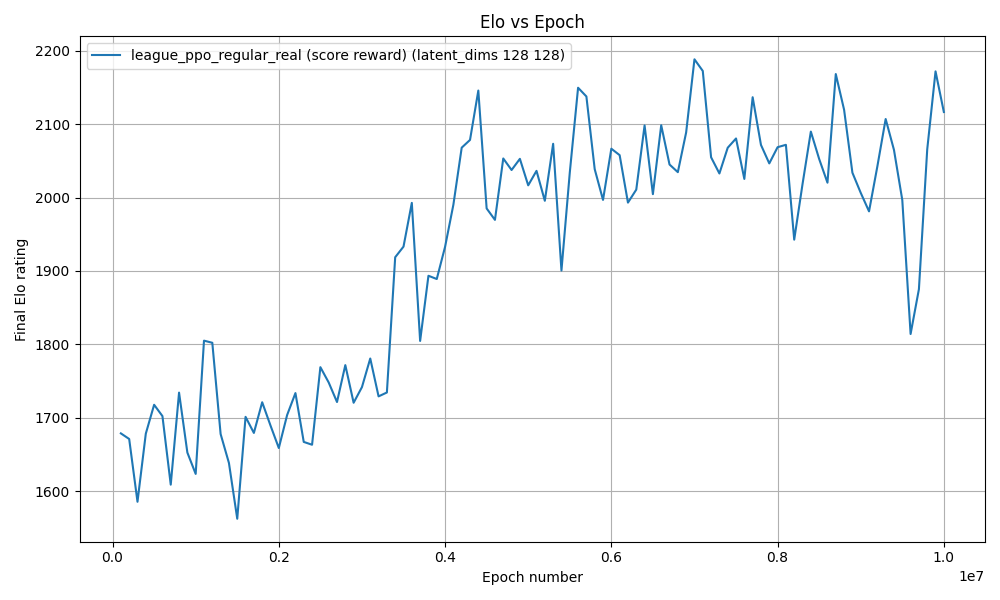
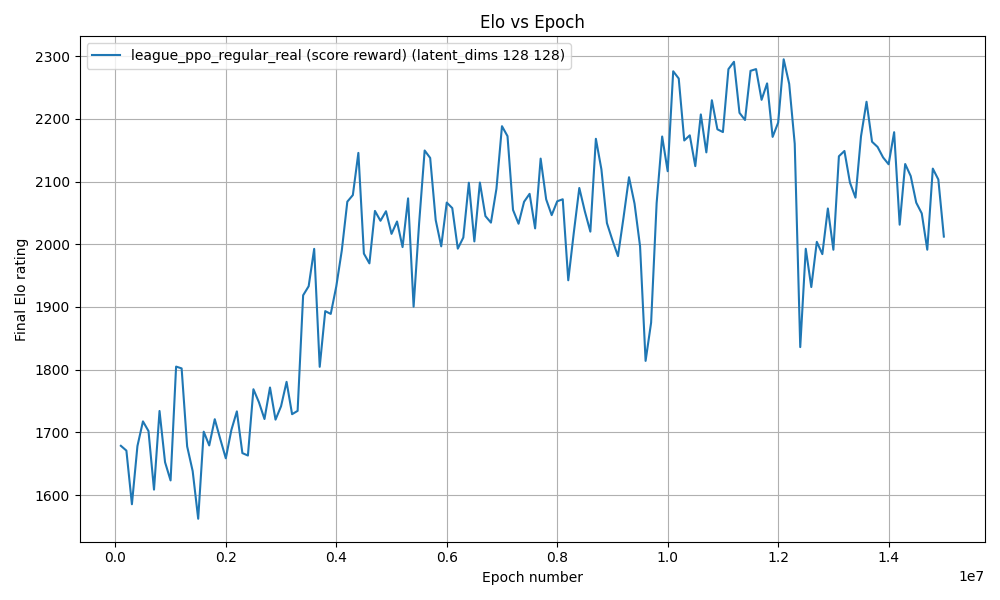
updated wrong plots for latent

diff --git a/main/elo_2.py b/main/elo_2.py
@@ -598,7 +598,7 @@ def plot_multiple_elo(
         xs_new = []
         ys_new = []
         for i,elem in enumerate(xs):
-            if elem <= 1e7:
+            if elem <= 5e8:
                 xs_new.append(xs[i])
                 ys_new.append(ys[i])
         
